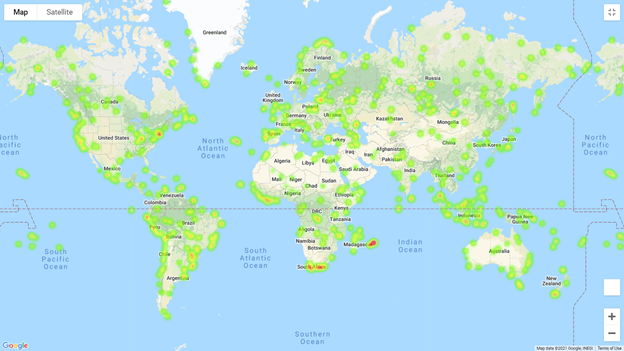
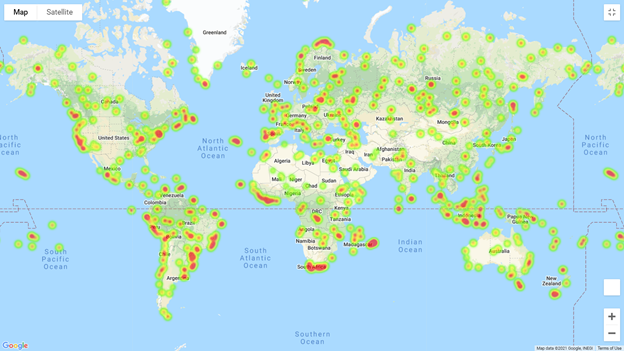
adjusting heatmap

diff --git a/README.md b/README.md
@@ -101,7 +101,6 @@ Now I used my skills in working with weather data to plan future vacations.
 To complete this part of the assignment, I did the following:
 
 * Created a heat map that displays the humidity for every city from Part I.
-![heatmap](Images/heatmap.png)
 
 * Chose criteria to narrow down the DataFrame to find my ideal weather condition. My conditions included:
 
@@ -110,4 +109,4 @@ To complete this part of the assignment, I did the following:
   * Less than 20% chance of cloudiness.
   
  * Lastly I plotted the hotels over the previously created humidity heatmap
- ![hotelmap](Images/hotel_map.png)
+ 
